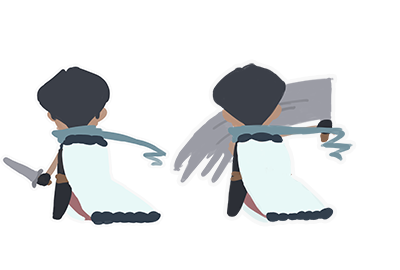
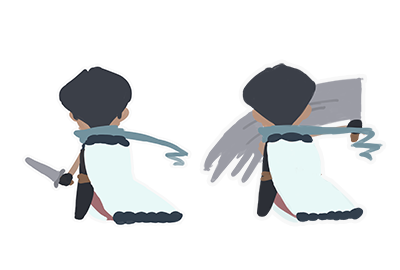
added attacking animation, merged other branches from other programmers.

Changed region(s): [[0.0, 0.237, 0.96, 0.8296], [0.84, 0.7111, 0.87, 0.7407]]

diff --git a/core/src/com/badlogic/drop/sprites/Hero.java b/core/src/com/badlogic/drop/sprites/Hero.java
@@ -2,6 +2,8 @@ package com.badlogic.drop.sprites;
 
 import com.badlogic.gdx.graphics.Texture;
 import com.badlogic.gdx.graphics.g2d.Sprite;
+import com.badlogic.gdx.graphics.g2d.TextureRegion;
+import com.badlogic.gdx.math.Rectangle;
 import com.badlogic.gdx.math.Vector3;
 
 import java.util.Timer;
@@ -16,9 +18,11 @@ public class Hero {
     private static final int gravity = -15;
     private Vector3 position;
     private Vector3 velocity;
-
+    private Animation heroAnimation;
     private Texture hero;
     private Sprite heroSprite;
+    private Rectangle bounds;
+    boolean attacking = false;
     private static double baseMoneyScaler = 1.0; // 100%
     private static double upgrade2Holder = 0.0;
     private static double currentMoneyScaler = baseMoneyScaler;
@@ -27,15 +31,22 @@ public class Hero {
 
     private static final int baseDamage = 15;
     private static int currentDamage = baseDamage;
+    private Texture texture;
 
 
     public Hero(int x, int y){
         position = new Vector3(x, y,0);
         velocity = new Vector3(0, 0, 0);
 
+        //idle
         hero = new Texture("hero.png");
-
         heroSprite = new Sprite(hero);
+
+        //animation
+        texture = new Texture("atk-set.png");
+        heroAnimation = new Animation(new TextureRegion(texture), 2,0.5f);
+        bounds= new Rectangle(x,y,texture.getWidth()/2, texture.getHeight());
+
     }
 
     public static void upgrade1(int value){
@@ -54,6 +65,8 @@ public class Hero {
     }
 
     public void update(float deltaTime){
+        heroAnimation.update(deltaTime);
+
         if(position.y > 80){
             velocity.add(0, gravity,0);
         }
@@ -71,6 +84,12 @@ public class Hero {
         position.set(170, 400,0);
         velocity.y = 100;
     }
+
+    public TextureRegion getTexture(){
+        return heroAnimation.getFrame();
+    }
+    public Rectangle getBounds(){return bounds;}
+    public void dispose() {texture.dispose();}
 
     public Vector3 getPosition() {
         return position;

diff --git a/core/src/com/badlogic/drop/states/PlayState.java b/core/src/com/badlogic/drop/states/PlayState.java
@@ -25,6 +25,9 @@ public class PlayState extends State{
 //    private Sprite heroSprite;
     private Hero jose;
     private Texture background;
+    private Engkanto chunkyBoi;
+    public boolean attacking;
+    private int chunkyBoiHP;
     private Engkanto engkanto;
 
     private int engkantoHP;
@@ -83,7 +86,7 @@ public class PlayState extends State{
 
     @Override
     protected void handleInput() {
-        
+
         engkantoHealth.setText(String.valueOf(Engkanto.getEngkantoHealth(engkantoHP)));
         if(Gdx.input.justTouched()){
             Vector3 tmpPlay = new Vector3(Gdx.input.getX(),Gdx.input.getY(),0);
@@ -149,7 +152,13 @@ public class PlayState extends State{
         sb.begin();
         sb.draw(background, 0,0, TapCore.width, TapCore.height);
         sb.draw(engkanto.getEngkantoSprite(), engkanto.getPosition().x, engkanto.getPosition().y);
-        sb.draw(jose.getHeroSprite(), jose.getPosition().x, jose.getPosition().y);
+        if(Gdx.input.isTouched()){
+
+            sb.draw(jose.getTexture(), jose.getPosition().x, jose.getPosition().y);
+        }else{
+
+            sb.draw(jose.getHeroSprite(), jose.getPosition().x, jose.getPosition().y);
+        }
         //this is a test for the game's timer
         engkantoHealth.draw(sb, (float)(100));
         backSprite.draw(sb);

diff --git a/core/src/com/badlogic/drop/sprites/Animation.java b/core/src/com/badlogic/drop/sprites/Animation.java
@@ -9,8 +9,34 @@ public class Animation {
     private float currentFrameTime;
     private int frameCount;
     private int frame;
-
     public Animation(TextureRegion region, int frameCount, float cycleTime){
-        //frames = new Array<>;
+        frames = new Array<TextureRegion>();
+        int frameWidth = region.getRegionWidth() / frameCount;
+        for(int i = 0; i<frameCount; i++){
+            frames.add(new TextureRegion(region, i*frameWidth,0,frameWidth, region.getRegionHeight()));
+        }
+        this.frameCount =frameCount;
+        maxFrameTime = cycleTime / frameCount;
+        frame = 0;
+
+    }
+
+    public void update(float dt){
+        currentFrameTime += dt;
+        if(currentFrameTime > maxFrameTime){
+            frame++;
+            currentFrameTime = 0;
+        }
+        if(frame >= frameCount){
+            frame = 0;
+        }
+    }
+
+
+    public TextureRegion getFrame(){
+        return frames.get(frame);
+    }
+    public TextureRegion setFrame(int frame){
+        return frames.get(1);
     }
 }

diff --git a/core/src/com/badlogic/drop/sprites/Timer.java b/core/src/com/badlogic/drop/sprites/Timer.java
@@ -4,20 +4,22 @@ import com.badlogic.gdx.Gdx;
 import com.badlogic.gdx.graphics.g2d.BitmapFont;
 import com.badlogic.gdx.graphics.g2d.SpriteBatch;
 
+import java.text.DecimalFormat;
+
 public class Timer {
     SpriteBatch sb;
     private BitmapFont font;
     public float currentTime = 20;
     public CharSequence str;
     public Boolean timeEnded;
-
+    private DecimalFormat df = new DecimalFormat("0");
     public Timer() {
         font = new BitmapFont();
         sb = new SpriteBatch();
     }
     public void drawTime(SpriteBatch sb) {
         currentTime -= Gdx.graphics.getDeltaTime();
-        str = Float.toString(currentTime);
+        str = df.format(currentTime);
         font.draw(sb, str, 225, 734);
     }
 
